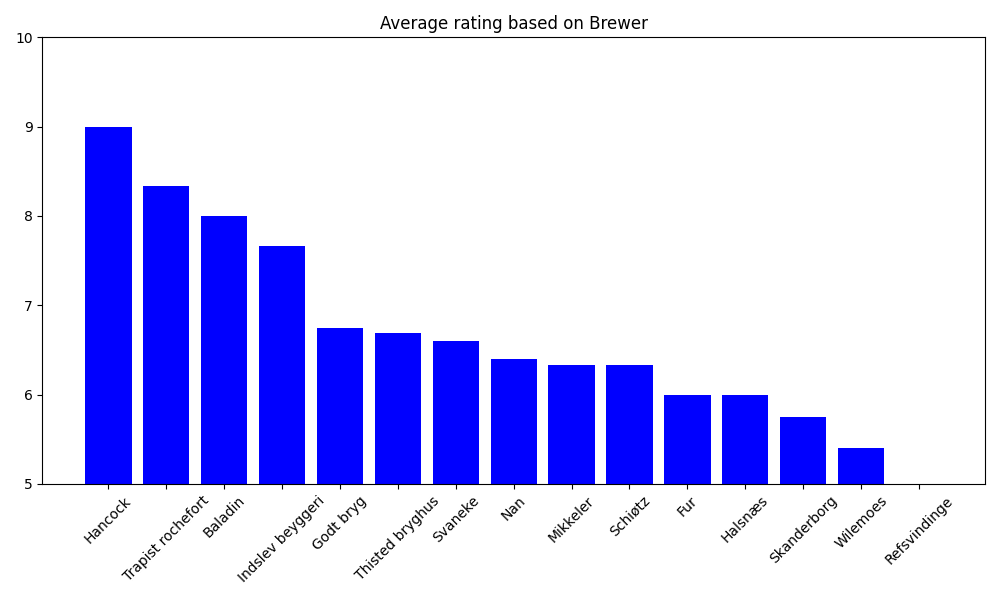
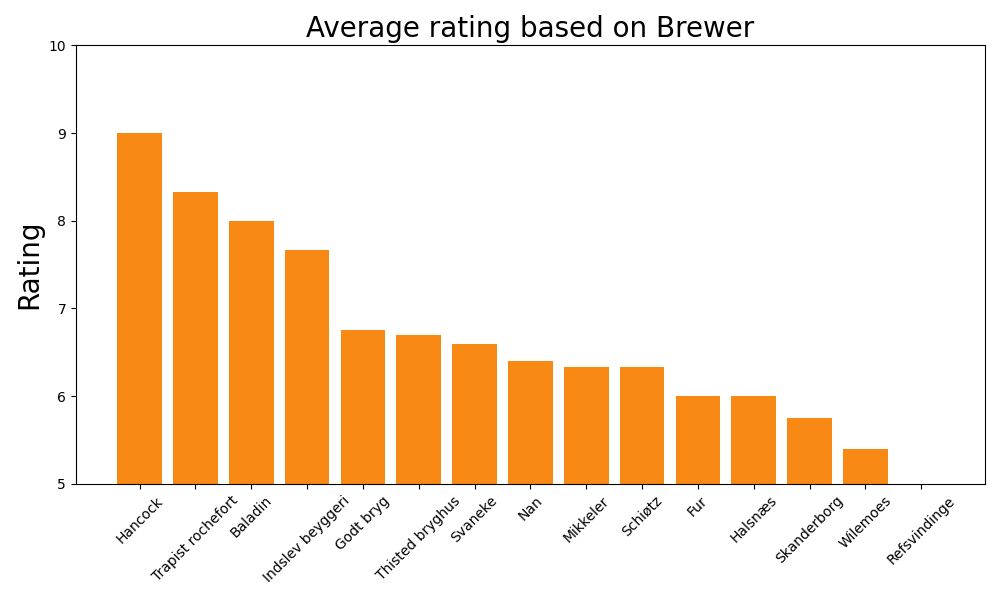
...

Changed region(s): [[0.0, 0.21, 0.93, 0.96], [0.031, 0.03, 0.992, 0.09], [0.93, 0.84, 0.961, 0.87]]

diff --git a/projectBeer/static/home.css b/projectBeer/static/home.css
@@ -1,14 +1,41 @@
 .main {
-    border: 1px solid #000000;
-    height: 600px;
 }
 
 .col_ {
     float: left;
     width: 50%;
     padding: 5px;
-  }
+}
 
+.donout {
+    float: left;
+    width: 50%;
+    height: 30%;
+    padding: 5px;
+}
+
+.result{
+    border: 1px solid #ff0000;   
+    float: left;
+    height: 380.75px;
+    width: 634.6px;
+}
+
+.display002{
+    border: 1px solid #2200ff;
+    float: left;
+    width: 50%;
+}
+
+.displayNumber{
+    color: black;
+    text-align: center;
+}
+
+.displayText{
+    color: black;
+    text-align: center;
+}
 
 /*.avgBy{
     display: block;

diff --git a/projectBeer/templates/home.html b/projectBeer/templates/home.html
@@ -7,5 +7,15 @@
     <div class = "col_">  
       <img src="static/plots/avgByBrew.png" class="avgBy" width="100%" height="80%" alt="">
     </div>
+    <img src="static/plots/donoutChart.png" class="donout" width="100%" height="80%" alt="">
+  </div>
+  <div class="result"> 
+    <div class="display002"> 
+      <h1 class="displayNumber"> 17 </h1> 
+      <p class="displayText"> Diffrent breweries </p>
+    </div>
+    <div class="display002"> 
+      number
+    </div>
   </div>
 {% endblock content %}

diff --git a/projectBeer/app.py b/projectBeer/app.py
@@ -20,13 +20,14 @@ from apscheduler.schedulers.background import BackgroundScheduler
 
 
 ############### ---------- Variables ---------- ###############
+orange_ = '#F78914'
 # Flask constructor
 app = Flask(__name__)
 
 app.secret_key = 'OsmanAndJeppe'
 
 # Setup database: postgres
-db = "dbname='postgres' user='postgres' host='127.0.0.1' password = 'ostehaps'"
+db = "dbname='postgres' user='postgres' host='127.0.0.1' password = 'password'"
 
 
 ############### ---------- plots ---------- ###############
@@ -56,9 +57,10 @@ def avgByCoun():
     y = list(df_avgByCoun.pop('country'))
     x = list(df_avgByCoun.pop('rating'))
     plt.figure(figsize=(10,6))
-    plt.barh(width=x, y=y, color = 'Blue')
+    plt.barh(width=x, y=y, color = orange_)
     plt.xlim(xRange)
-    plt.title("Average rating based on Country")
+    plt.xlabel('Rating', fontdict={'size': 20})
+    plt.title("Average rating based on Country", fontdict={'size': 20})
     plt.savefig('static/plots/avgByCoun.png', transparent=True)
 
 '''Saves a plot in static/plots/'''
@@ -79,23 +81,37 @@ def avgByBrew():
     x = list(df_avgByCoun.pop('brewer'))[-15:]
     y = list(df_avgByCoun.pop('rating'))[-15:]
     plt.figure(figsize=(10,6))
-    plt.bar(x=x, height=y, color = 'Blue')
-    plt.title("Average rating based on Brewer")
+    plt.bar(x=x, height=y, color = orange_)
+    plt.title("Average rating based on Brewer", fontdict={'size': 20})
     plt.ylim((5,10))
+    plt.ylabel('Rating', fontdict={'size': 20})
     plt.xticks(rotation = 45)
     plt.savefig('static/plots/avgByBrew.png', transparent=True)
 
 '''Saves a plot in static/plots/'''
 def donoutChart():
-    fig, ax = plt.subplots(figsize=(6, 3), subplot_kw=dict(aspect="equal"))
+    fig, ax = plt.subplots(figsize=(10, 6), subplot_kw=dict(aspect="equal"))
     data = createDataframe()
     data = data['country'].value_counts().reset_index()
     data = data.sort_values(by=['country'], ascending=False)
     data.loc[data['country'] < 3, 'index'] = "other"
     data = data.groupby(['index'])['country'].sum().reset_index()
     labels = list(data.pop('index'))
+    labels = list(map(str.capitalize, labels))
+
     count = list(data.pop('country'))
-    
+
+    #Add % for labels
+    total = sum(count)
+    lst = []
+    for elm in count:
+        per = elm / total
+        per = round(per, 2)
+        per = ' ' + str(per) + '%'
+        lst.append(per)
+    print(lst)
+    labels = [i + j for i, j in zip(labels, lst)]
+
     wedges, texts = ax.pie(count, wedgeprops=dict(width=0.5), startangle=-40)
 
     bbox_props = dict(boxstyle="square,pad=0.3", fc="w", ec="k", lw=0.72)
@@ -112,7 +128,8 @@ def donoutChart():
         ax.annotate(labels[i], xy=(x, y), xytext=(1.35*np.sign(x), 1.4*y),
             horizontalalignment=horizontalalignment, **kw)
 
-    ax.set_title("Distribution of beer count by country", y=1.05)
+    
+    ax.set_title("Distribution of beer count by country", y=1.05, fontdict={'size': 20})
     plt.savefig('static/plots/donoutChart.png', transparent=True)
 
 
